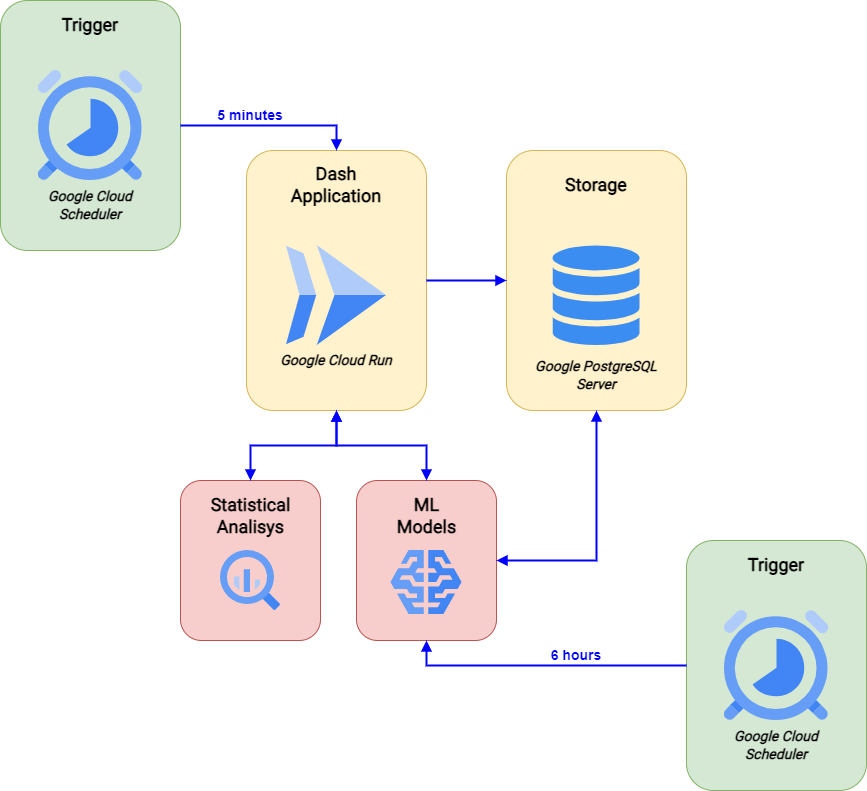
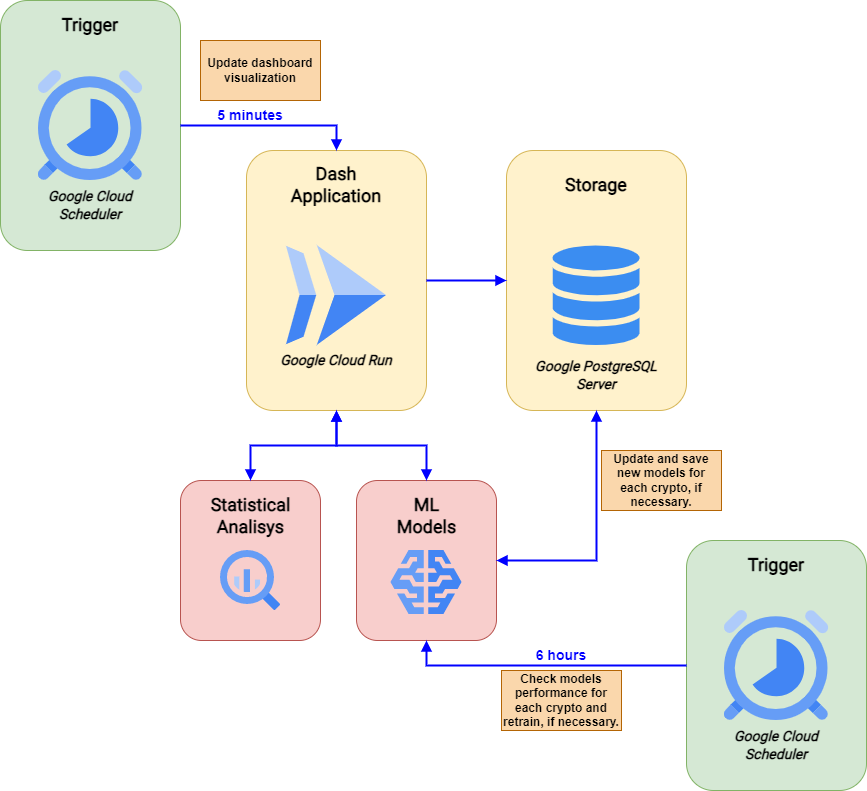
Add new comments in Dashboard figure

Changed region(s): [[0.6851, 0.5461, 0.8408, 0.6675], [0.218, 0.0303, 0.3737, 0.1517], [0.5606, 0.8192, 0.7163, 0.9406]]

diff --git a/dashboard-application/utils/data_acquisition.py b/dashboard-application/utils/data_acquisition.py
@@ -1,0 +1,13 @@
+import psycopg2
+from datetime import datetime, timedelta
+
+def get_data(crypto_name, start_date = (datetime.now()-timedelta(hours=3)).strftime('%Y-%m-%d %H:%M:%S'), end_date = datetime.now().strftime('%Y-%m-%d %H:%M:%S')):
+    conn = psycopg2.connect(
+        host = '34.173.188.111',
+        database = 'postgres',
+        user = 'postgres',
+        password = 'JVictor@00'
+        )
+    cursor = conn.cursor()
+
+    query = f"SELECT * FROM {crypto_name} WHERE date BETWEEN '{start_date}' and '{end_date}'"
